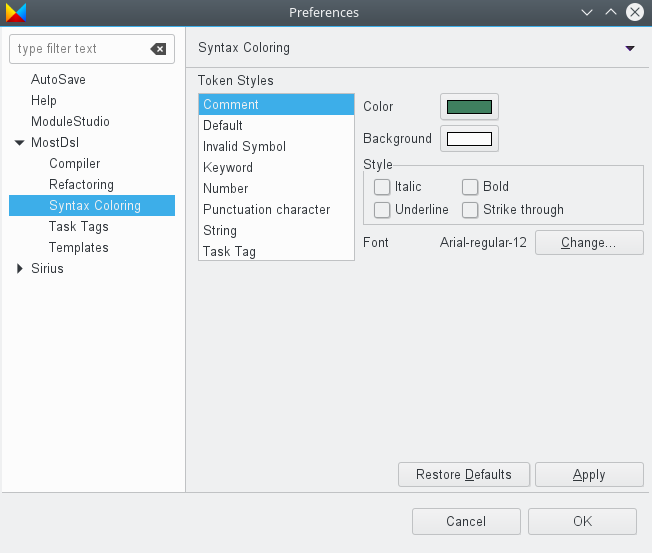
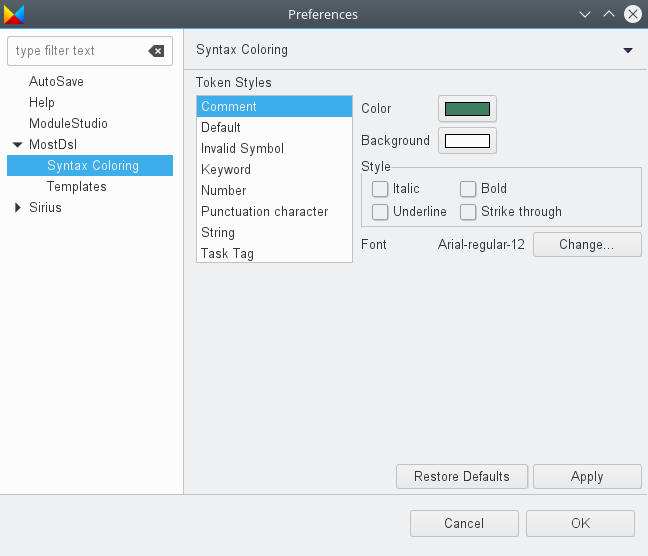
updated changelog

diff --git a/bundles/de.guite.modulestudio.help/doc/38-Preferences.md b/bundles/de.guite.modulestudio.help/doc/38-Preferences.md
@@ -31,7 +31,7 @@ The following preference pages are mainly intended for advanced users and are us
 
 ### MostDsl
 
-The *MostDsl* tab is related to the [textual editor](36-TextualEditor.md#textual-editor). It needs some cleanup, because many settings are actually not required. This section explains only those which are most relevant.
+The *MostDsl* tab is related to the [textual editor](36-TextualEditor.md#textual-editor).
 
 #### Syntax colouring
 

diff --git a/bundles/de.guite.modulestudio.help/doc/98-Changelog.md b/bundles/de.guite.modulestudio.help/doc/98-Changelog.md
@@ -4,6 +4,7 @@
 
 ### Product changes
 
+* Hide some unrequired `MostDsl` preference sub pages (`Compiler`, `Refactoring` and `Task Tags`).
 * Removed model migration from 0.6.x.
 
 ### DSL / Modelling language changes
